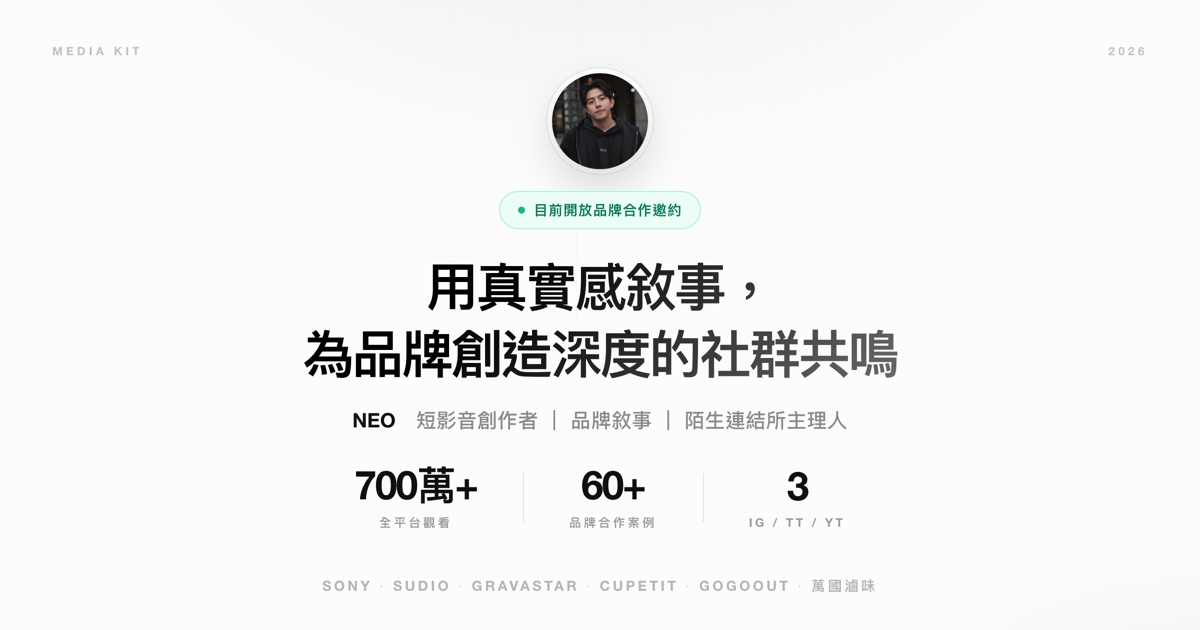
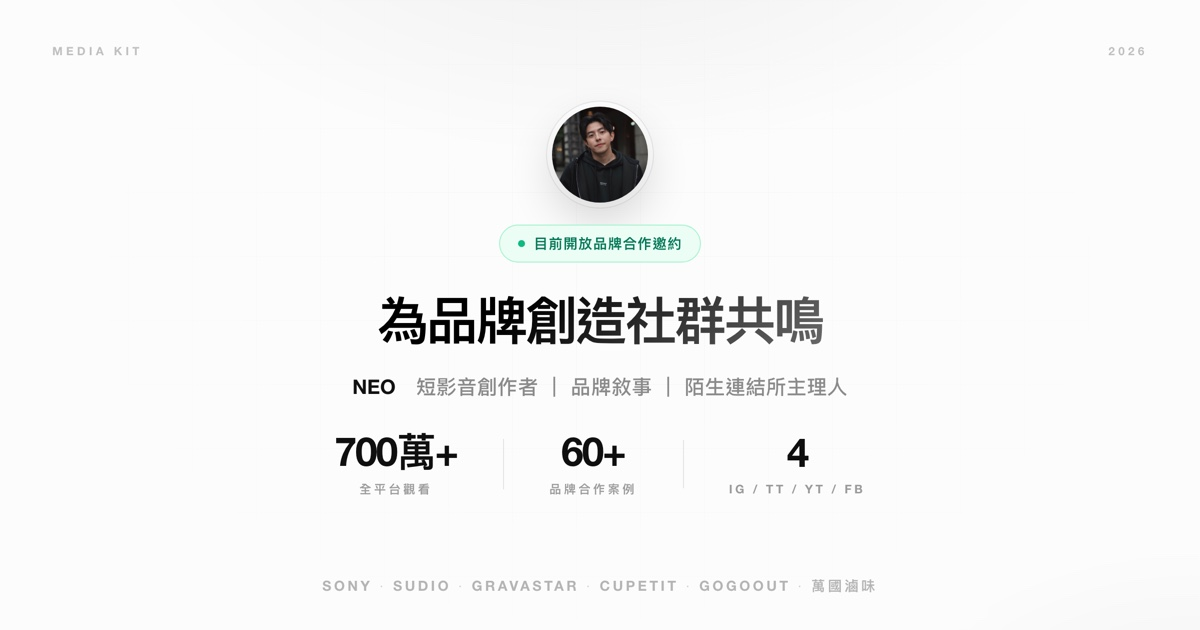
更新精選案例與網站數據：新增 iRocks、BAGSMART，Gogoout 置中
精選案例（7 → 9 張）
- 新增 iRocks 人體工學椅開箱、BAGSMART 後背包開箱（cover-10/11，
  由 2160×3840 原圖縮為 608×1080）
- 刮鬍刀開箱的品牌由 Sony 更正為 One-meter
- Gogoout 移到正中央，成為扇形最高、角度最正的一張
- 疊牌收合的中心點由第 3 張改為第 4 張；卡片間距 1024px 下
  116 → 94px、1280px 下 152 → 118px，九張卡不會超出容器

文案與數據
- Hero 標語改為一行「為品牌創造社群共鳴。」，og:title 與
  twitter:title 同步更新
- 經營平台 3 → 4（IG/TT/YT/FB）
- 陌生連結所：12 場已舉辦、322 人累積報名
- 聯絡區標題改為「不如直接聊聊？」
- Brand Partnerships 新增 iRocks、BAGSMART、Flixseek、營養師輕食、
  安庭家居、PHILIPS
- 質感 3C / 生活新增隨身刮鬍刀開箱、Sony 電競鍵盤開箱

分享縮圖
- og-cover.jpg、og-cover-light.jpg 依新標語與平台數重新算繪

驗證：1280、1024、390px 皆無水平溢出；手機版 Hero 為單行、
卡片列可橫向滑動；九張封面皆正常載入。

Changed region(s): [[0.2467, 0.1206, 0.7708, 0.8444]]

diff --git a/index.html b/index.html
@@ -15,7 +15,7 @@
     <meta property="og:site_name" content="Neo｜創作者合作提案 Media Kit">
     <meta property="og:locale" content="zh_TW">
     <meta property="og:url" content="https://neo3333636-ctrl.github.io/my-portfolio/">
-    <meta property="og:title" content="Neo | 創作者合作提案 — 用真實感敘事為品牌創造社群共鳴">
+    <meta property="og:title" content="Neo | 創作者合作提案 — 為品牌創造社群共鳴">
     <meta property="og:description" content="短影音 × 質感生活敘事。已合作 Sony、Sudio、GravaStar、CUPETIT 等品牌，全平台 700 萬+ 觀看，並自營線下社群「陌生連結所」。">
     <meta property="og:image" content="https://neo3333636-ctrl.github.io/my-portfolio/og-cover.jpg">
     <meta property="og:image:secure_url" content="https://neo3333636-ctrl.github.io/my-portfolio/og-cover.jpg">
@@ -25,7 +25,7 @@
     <meta property="og:image:alt" content="Neo｜短影音創作者．品牌敘事．陌生連結所主理人 — 全平台 700 萬+ 觀看、60+ 品牌合作案例">
 
     <meta name="twitter:card" content="summary_large_image">
-    <meta name="twitter:title" content="Neo | 創作者合作提案 — 用真實感敘事為品牌創造社群共鳴">
+    <meta name="twitter:title" content="Neo | 創作者合作提案 — 為品牌創造社群共鳴">
     <meta name="twitter:description" content="短影音 × 質感生活敘事。已合作 Sony、Sudio、GravaStar、CUPETIT 等品牌，全平台 700 萬+ 觀看，並自營線下社群「陌生連結所」。">
     <meta name="twitter:image" content="https://neo3333636-ctrl.github.io/my-portfolio/og-cover.jpg">
     <meta name="twitter:image:alt" content="Neo｜短影音創作者．品牌敘事．陌生連結所主理人 — 全平台 700 萬+ 觀看、60+ 品牌合作案例">
@@ -585,13 +585,13 @@
 
         /* 發牌動畫：從一疊散開成扇形 */
         @keyframes deck-deal {
-            from { transform: translateX(calc((3 - var(--i)) * var(--step))) rotate(-5deg) scale(0.93); }
+            from { transform: translateX(calc((4 - var(--i)) * var(--step))) rotate(-5deg) scale(0.93); }
         }
 
         @media (min-width: 1024px) {
             .deck {
                 --cw: 150px;
-                --step: 116px;
+                --step: 94px;
                 display: flex;
                 justify-content: center;
                 align-items: flex-start;
@@ -616,7 +616,7 @@
 
             /* 捲到之前：收成一疊 */
             .deck:not(.active) .deck-card {
-                transform: translateX(calc((3 - var(--i)) * var(--step))) rotate(-5deg) scale(0.93);
+                transform: translateX(calc((4 - var(--i)) * var(--step))) rotate(-5deg) scale(0.93);
                 transition: none;
             }
             /* 捲進畫面：依序發牌，animation 結束後交還給 transition 處理 hover */
@@ -641,7 +641,7 @@
             .deck-card:hover .deck-media { box-shadow: 0 40px 80px rgba(0,0,0,0.22); }
         }
         @media (min-width: 1280px) {
-            .deck { --cw: 190px; --step: 152px; }
+            .deck { --cw: 190px; --step: 118px; }
             .deck-media { border-radius: 22px; }
             .deck-title { font-size: 14px; }
             .deck-brand { font-size: 9px; margin-bottom: 4px; }
@@ -741,7 +741,7 @@
         </div>
 
         <h1 class="text-[28px] sm:text-4xl md:text-5xl lg:text-7xl font-bold mb-6 lg:mb-10 tracking-tighter leading-tight gradient-text px-4">
-            用真實感敘事，<br>為品牌創造深度的社群共鳴。
+            為品牌創造社群共鳴。
         </h1>
 
         <p class="text-[15px] sm:text-base md:text-lg lg:text-xl xl:text-2xl text-gray-500 max-w-4xl mx-auto mb-8 lg:mb-12 leading-[1.8] font-light px-6">
@@ -771,6 +771,12 @@
                 <span class="brand-tag">Gogoout</span>
                 <span class="brand-tag">MAKANELIC</span>
                 <span class="brand-tag">萬國滷味</span>
+                <span class="brand-tag">iRocks</span>
+                <span class="brand-tag">BAGSMART</span>
+                <span class="brand-tag">Flixseek</span>
+                <span class="brand-tag">營養師輕食</span>
+                <span class="brand-tag">安庭家居</span>
+                <span class="brand-tag">PHILIPS</span>
             </div>
         </div>
     </section>
@@ -791,8 +797,8 @@
                     <div class="text-[10px] md:text-[12px] tracking-widest text-gray-500 font-bold">全平台觀看量</div>
                 </div>
                 <div class="text-center md:border-r border-gray-200/70">
-                    <div class="text-3xl sm:text-4xl lg:text-6xl font-bold mb-2 lg:mb-3 tracking-tighter">3</div>
-                    <div class="text-[10px] md:text-[12px] tracking-widest text-gray-500 font-bold">經營平台 IG/TT/YT</div>
+                    <div class="text-3xl sm:text-4xl lg:text-6xl font-bold mb-2 lg:mb-3 tracking-tighter">4</div>
+                    <div class="text-[10px] md:text-[12px] tracking-widest text-gray-500 font-bold">經營平台 IG/TT/YT/FB</div>
                 </div>
                 <div class="text-center">
                     <div class="text-2xl sm:text-3xl lg:text-5xl font-bold mb-2 lg:mb-3 tracking-tighter">質感・溫度</div>
@@ -914,18 +920,18 @@
             </div>
 
             <div class="deck">
-                <a href="https://www.instagram.com/reel/DMWwv6OSSyv/" target="_blank" rel="noopener" class="deck-card" style="--i:0; --rot:-7.5deg; --dy:16px" aria-label="Sony 高質感開箱 — 刮鬍刀">
+                <a href="https://www.instagram.com/reel/DMWwv6OSSyv/" target="_blank" rel="noopener" class="deck-card" style="--i:0; --rot:-8deg; --dy:16px" aria-label="One-meter 刮鬍刀開箱">
                     <div class="deck-media">
-                        <img src="cover-2.jpg" alt="Sony 高質感開箱 — 刮鬍刀" loading="lazy" width="608" height="1080" onerror="this.src='https://images.unsplash.com/photo-1503951914875-452162b0f3f1?q=80&w=400&auto=format&fit=crop'">
+                        <img src="cover-2.jpg" alt="One-meter 刮鬍刀開箱" loading="lazy" width="608" height="1080" onerror="this.src='https://images.unsplash.com/photo-1503951914875-452162b0f3f1?q=80&w=400&auto=format&fit=crop'">
                         <span class="deck-play"><svg class="w-3 h-3" fill="currentColor" viewBox="0 0 24 24"><path d="M8 5v14l11-7z"/></svg>觀看影片</span>
                         <div class="deck-label">
-                            <span class="deck-brand">Sony</span>
+                            <span class="deck-brand">One-meter</span>
                             <span class="deck-title">刮鬍刀開箱</span>
                         </div>
                     </div>
                 </a>
 
-                <a href="https://www.instagram.com/reel/DG5bAYSyNkl/" target="_blank" rel="noopener" class="deck-card" style="--i:1; --rot:-5deg; --dy:8px" aria-label="Travel Blue 旅行產品介紹 — 旅行配件">
+                <a href="https://www.instagram.com/reel/DG5bAYSyNkl/" target="_blank" rel="noopener" class="deck-card" style="--i:1; --rot:-6deg; --dy:9px" aria-label="Travel Blue 旅行產品介紹 — 旅行配件">
                     <div class="deck-media">
                         <img src="cover-3.jpg" alt="Travel Blue 旅行產品介紹 — 旅行配件" loading="lazy" width="608" height="1080" onerror="this.src='https://images.unsplash.com/photo-1523275335684-37898b6baf30?q=80&w=400&auto=format&fit=crop'">
                         <span class="deck-play"><svg class="w-3 h-3" fill="currentColor" viewBox="0 0 24 24"><path d="M8 5v14l11-7z"/></svg>觀看影片</span>
@@ -936,7 +942,7 @@
                     </div>
                 </a>
 
-                <a href="https://www.instagram.com/reel/DbvJjGbuurF/" target="_blank" rel="noopener" class="deck-card" style="--i:2; --rot:-2.5deg; --dy:2px" aria-label="CUPETIT 卡柏蒂精品甜點 中秋禮盒推薦">
+                <a href="https://www.instagram.com/reel/DbvJjGbuurF/" target="_blank" rel="noopener" class="deck-card" style="--i:2; --rot:-4deg; --dy:4px" aria-label="CUPETIT 卡柏蒂精品甜點 中秋禮盒推薦">
                     <div class="deck-media">
                         <img src="cover-6.jpg" alt="CUPETIT 卡柏蒂精品甜點 中秋禮盒推薦" loading="lazy" width="608" height="1080" onerror="this.src='https://images.unsplash.com/photo-1558961363-fa8fdf82db35?q=80&w=400&auto=format&fit=crop'">
                         <span class="deck-play"><svg class="w-3 h-3" fill="currentColor" viewBox="0 0 24 24"><path d="M8 5v14l11-7z"/></svg>觀看影片</span>
@@ -947,7 +953,18 @@
                     </div>
                 </a>
 
-                <a href="https://www.instagram.com/reel/DZT5tuGRSu2/" target="_blank" rel="noopener" class="deck-card" style="--i:3; --rot:0deg; --dy:0px" aria-label="Gogoout 平台分享 — 租車">
+                <a href="https://www.instagram.com/p/Dd_IQD3BoYb/" target="_blank" rel="noopener" class="deck-card" style="--i:3; --rot:-2deg; --dy:1px" aria-label="iRocks 人體工學椅開箱">
+                    <div class="deck-media">
+                        <img src="cover-10.jpg" alt="iRocks 人體工學椅開箱" loading="lazy" width="608" height="1080">
+                        <span class="deck-play"><svg class="w-3 h-3" fill="currentColor" viewBox="0 0 24 24"><path d="M8 5v14l11-7z"/></svg>觀看影片</span>
+                        <div class="deck-label">
+                            <span class="deck-brand">iRocks</span>
+                            <span class="deck-title">人體工學椅開箱</span>
+                        </div>
+                    </div>
+                </a>
+
+                <a href="https://www.instagram.com/reel/DZT5tuGRSu2/" target="_blank" rel="noopener" class="deck-card" style="--i:4; --rot:0deg; --dy:0px" aria-label="Gogoout 平台分享 — 租車">
                     <div class="deck-media">
                         <img src="cover-7.jpg" alt="Gogoout 平台分享 — 租車" loading="lazy" width="608" height="1080" onerror="this.src='https://images.unsplash.com/photo-1449965408869-eaa3f722e40d?q=80&w=400&auto=format&fit=crop'">
                         <span class="deck-play"><svg class="w-3 h-3" fill="currentColor" viewBox="0 0 24 24"><path d="M8 5v14l11-7z"/></svg>觀看影片</span>
@@ -958,7 +975,18 @@
                     </div>
                 </a>
 
-                <a href="https://www.instagram.com/reel/DY61UwRvrnb/" target="_blank" rel="noopener" class="deck-card" style="--i:4; --rot:2.5deg; --dy:2px" aria-label="萬國滷味 美食分享 — 滷味">
+                <a href="https://www.instagram.com/reel/Dd0ZuS1x6HE/" target="_blank" rel="noopener" class="deck-card" style="--i:5; --rot:2deg; --dy:1px" aria-label="BAGSMART 後背包開箱">
+                    <div class="deck-media">
+                        <img src="cover-11.jpg" alt="BAGSMART 後背包開箱" loading="lazy" width="608" height="1080">
+                        <span class="deck-play"><svg class="w-3 h-3" fill="currentColor" viewBox="0 0 24 24"><path d="M8 5v14l11-7z"/></svg>觀看影片</span>
+                        <div class="deck-label">
+                            <span class="deck-brand">BAGSMART</span>
+                            <span class="deck-title">後背包開箱</span>
+                        </div>
+                    </div>
+                </a>
+
+                <a href="https://www.instagram.com/reel/DY61UwRvrnb/" target="_blank" rel="noopener" class="deck-card" style="--i:6; --rot:4deg; --dy:4px" aria-label="萬國滷味 美食分享 — 滷味">
                     <div class="deck-media">
                         <img src="cover-8.jpg" alt="萬國滷味 美食分享 — 滷味" loading="lazy" width="608" height="1080" onerror="this.src='https://images.unsplash.com/photo-1552611052-33e04de081de?q=80&w=400&auto=format&fit=crop'">
                         <span class="deck-play"><svg class="w-3 h-3" fill="currentColor" viewBox="0 0 24 24"><path d="M8 5v14l11-7z"/></svg>觀看影片</span>
@@ -969,7 +997,7 @@
                     </div>
                 </a>
 
-                <a href="https://www.instagram.com/p/DbP8lhwxVar/" target="_blank" rel="noopener" class="deck-card" style="--i:5; --rot:5deg; --dy:8px" aria-label="景點介紹 — 眠月線">
+                <a href="https://www.instagram.com/p/DbP8lhwxVar/" target="_blank" rel="noopener" class="deck-card" style="--i:7; --rot:6deg; --dy:9px" aria-label="景點介紹 — 眠月線">
                     <div class="deck-media">
                         <img src="cover-9.jpg" alt="景點介紹 — 眠月線" loading="lazy" width="608" height="1080" onerror="this.src='https://images.unsplash.com/photo-1441974231531-c6227db76b6e?q=80&w=400&auto=format&fit=crop'">
                         <span class="deck-play"><svg class="w-3 h-3" fill="currentColor" viewBox="0 0 24 24"><path d="M8 5v14l11-7z"/></svg>觀看影片</span>
@@ -980,7 +1008,7 @@
                     </div>
                 </a>
 
-                <a href="https://www.instagram.com/reel/DG9qyaKyAFi/" target="_blank" rel="noopener" class="deck-card" style="--i:6; --rot:7.5deg; --dy:16px" aria-label="秘境探索 — 線西沙灘">
+                <a href="https://www.instagram.com/reel/DG9qyaKyAFi/" target="_blank" rel="noopener" class="deck-card" style="--i:8; --rot:8deg; --dy:16px" aria-label="秘境探索 — 線西沙灘">
                     <div class="deck-media">
                         <img src="cover-1.jpg" alt="秘境探索 — 線西沙灘" loading="lazy" width="608" height="1080" onerror="this.src='https://images.unsplash.com/photo-1507525428034-b723cf961d3e?q=80&w=400&auto=format&fit=crop'">
                         <span class="deck-play"><svg class="w-3 h-3" fill="currentColor" viewBox="0 0 24 24"><path d="M8 5v14l11-7z"/></svg>觀看影片</span>
@@ -1013,11 +1041,11 @@
 
                     <div class="project-stats">
                         <div class="project-stat">
-                            <span class="num">8</span>
+                            <span class="num">12</span>
                             <span class="cap">場已舉辦</span>
                         </div>
                         <div class="project-stat">
-                            <span class="num">304</span>
+                            <span class="num">322</span>
                             <span class="cap">人累積報名</span>
                         </div>
                     </div>
@@ -1109,6 +1137,8 @@
                             <a href="https://www.instagram.com/p/DOoBa0dkZf1/" target="_blank" class="other-work-link">質感無線耳機深度評測</a>
                             <a href="https://www.instagram.com/reel/DLkJO63ygx7/" target="_blank" class="other-work-link">機械鍵盤開箱與打字音分享</a>
                             <a href="https://www.instagram.com/reel/DJq_jmaRE2G/" target="_blank" class="other-work-link">仕高利達威士忌品飲紀實</a>
+                            <a href="https://www.instagram.com/reel/DdD4W03hGkH/" target="_blank" class="other-work-link">隨身刮鬍刀開箱</a>
+                            <a href="https://www.instagram.com/p/DS4q2S4kZrD/" target="_blank" class="other-work-link">Sony 電競鍵盤開箱</a>
                         </div>
                     </div>
                     <div>
@@ -1133,7 +1163,7 @@
                 <span class="text-[9px] md:text-[12px] font-bold uppercase tracking-[0.6em] text-gray-500 mb-8 lg:mb-12 block">Let's Connect</span>
                 
                 <h2 class="text-3xl sm:text-4xl md:text-5xl lg:text-6xl xl:text-7xl font-bold mb-8 lg:mb-12 tracking-tighter leading-[1.2] lg:leading-[1.1]">
-                    如果你也剛好喜歡我的風格，<br>不如我們直接聊聊？
+                    不如直接聊聊？
                 </h2>
                 
                 <p class="text-[15px] sm:text-base lg:text-xl xl:text-2xl text-gray-400 mb-16 lg:mb-20 max-w-3xl mx-auto font-light leading-[1.8]">

diff --git a/og-source/og-dark.html b/og-source/og-dark.html
@@ -70,14 +70,14 @@
     <div class="name">NEO</div>
     <div class="role">短影音創作者 ｜ 品牌敘事 ｜ 陌生連結所主理人</div>
 
-    <div class="lead">用真實感敘事，<br>為品牌創造深度的社群共鳴。</div>
+    <div class="lead">為品牌創造社群共鳴。</div>
 
     <div class="rule"></div>
 
     <div class="stats">
       <div class="stat"><div class="n">700萬+</div><div class="l">全平台觀看</div></div>
       <div class="stat"><div class="n">60+</div><div class="l">品牌合作案例</div></div>
-      <div class="stat"><div class="n">3</div><div class="l">IG / TT / YT</div></div>
+      <div class="stat"><div class="n">4</div><div class="l">IG / TT / YT / FB</div></div>
     </div>
 
     <div class="brands">SONY<b>·</b>SUDIO<b>·</b>GRAVASTAR<b>·</b>CUPETIT<b>·</b>GOGOOUT</div>

diff --git a/og-source/og-light.html b/og-source/og-light.html
@@ -71,14 +71,14 @@
 
     <span class="pill"><span class="dot"></span>目前開放品牌合作邀約</span>
 
-    <h1>用真實感敘事，<br>為品牌創造深度的社群共鳴</h1>
+    <h1>為品牌創造社群共鳴</h1>
 
     <div class="role"><strong>NEO</strong>　短影音創作者 ｜ 品牌敘事 ｜ 陌生連結所主理人</div>
 
     <div class="stats">
       <div class="stat"><div class="n">700萬+</div><div class="l">全平台觀看</div></div>
       <div class="stat"><div class="n">60+</div><div class="l">品牌合作案例</div></div>
-      <div class="stat"><div class="n">3</div><div class="l">IG / TT / YT</div></div>
+      <div class="stat"><div class="n">4</div><div class="l">IG / TT / YT / FB</div></div>
     </div>
   </div>
 
